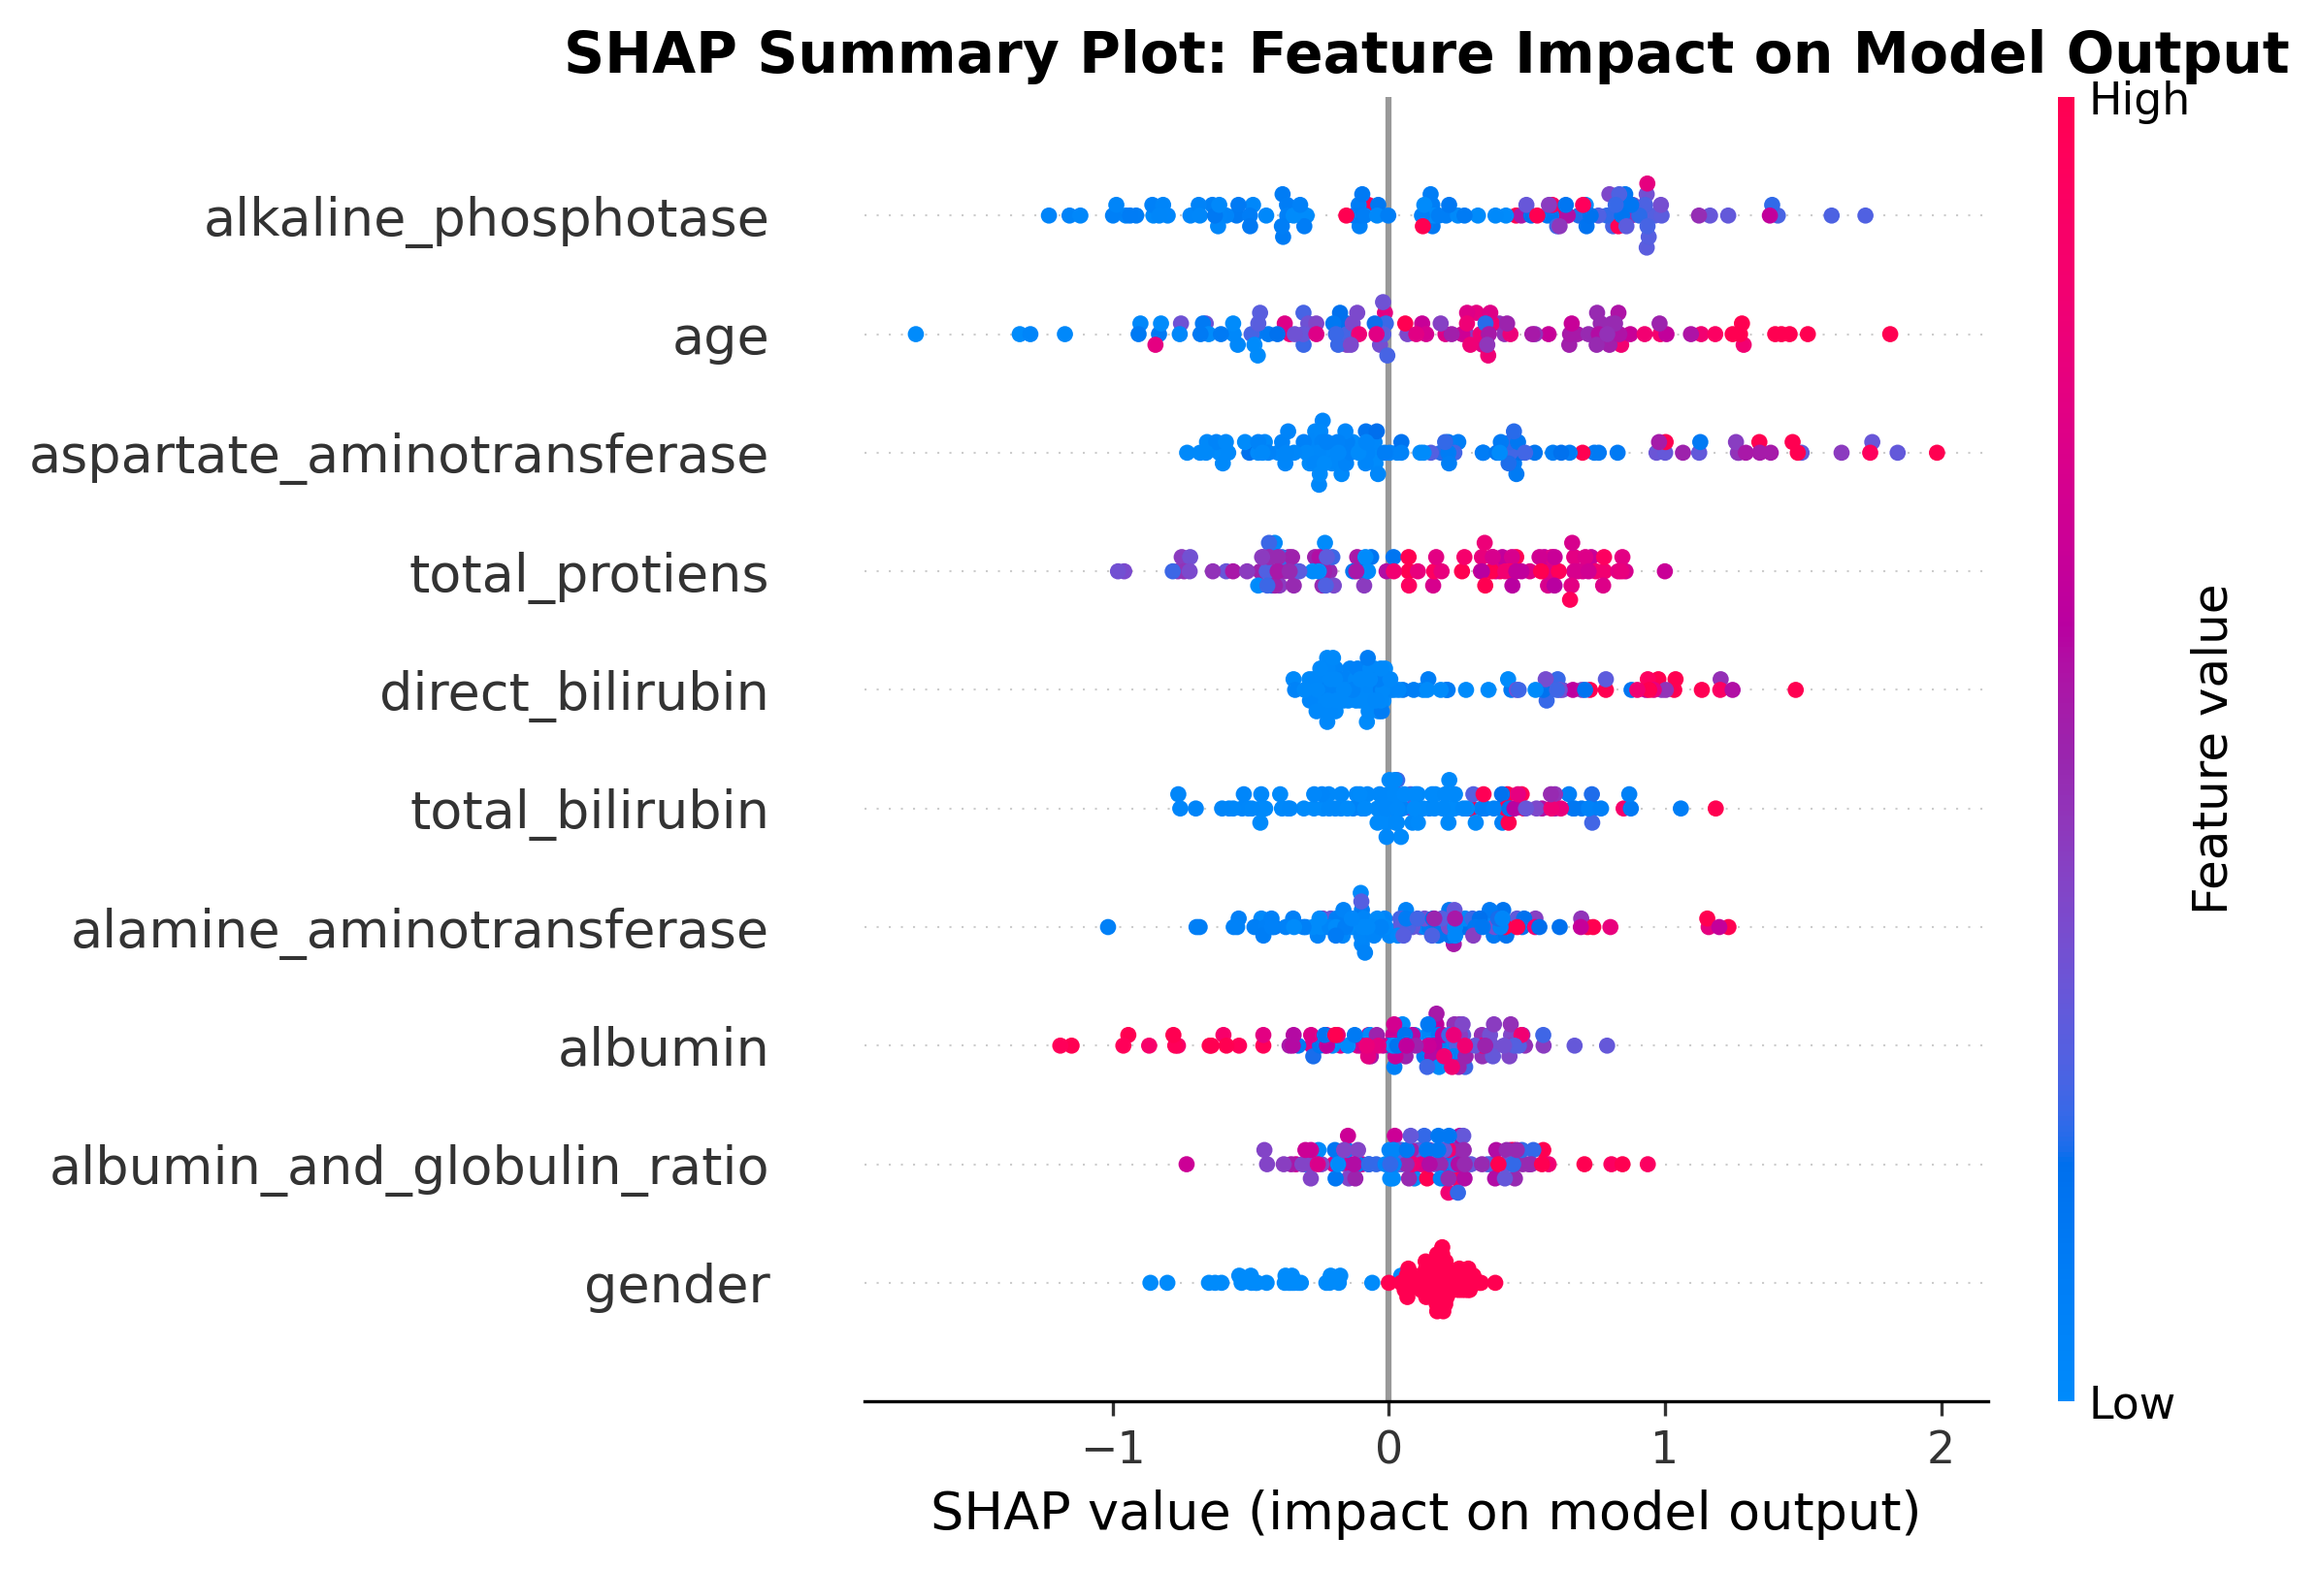
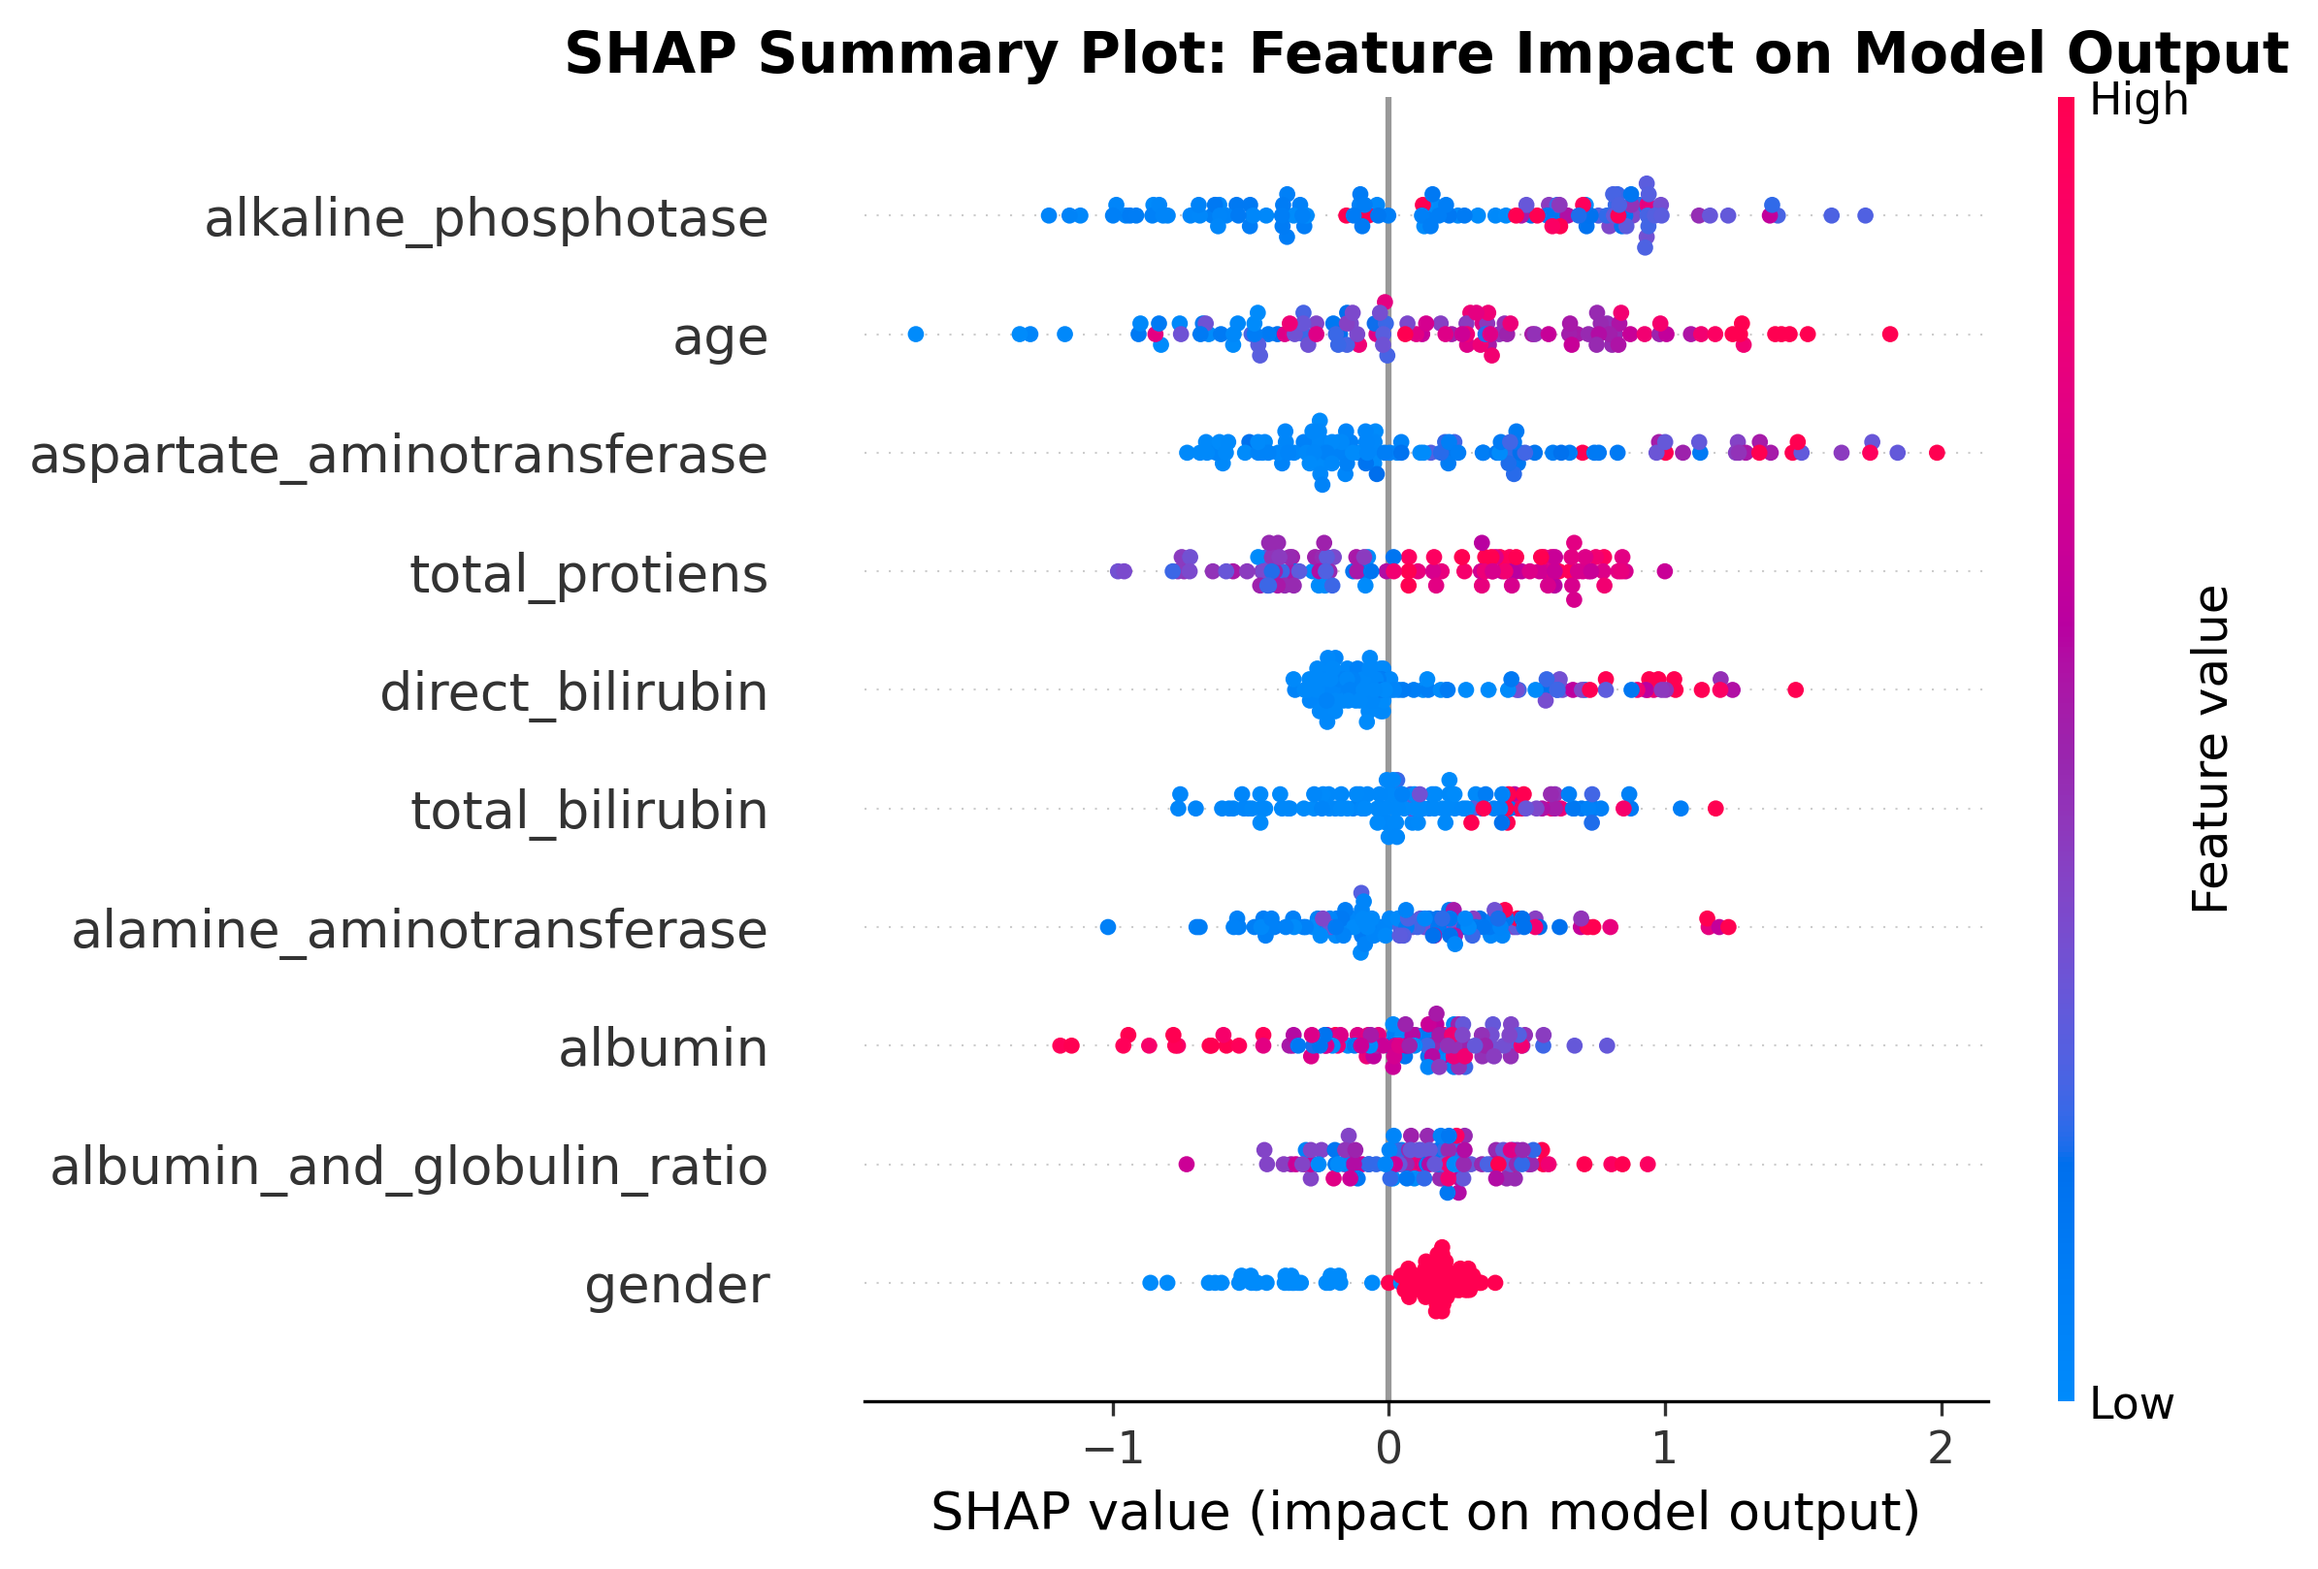
_supervised_learning modified

diff --git a/_supervised_learning.py b/_supervised_learning.py
@@ -392,9 +392,8 @@ plt.close()
 
 print("[OK] Precision-recall curves saved to outputs/02d_precision_recall_curves.png")
 
-# ========================================================================
+
 # CROSS-VALIDATION ANALYSIS
-# ========================================================================
 print("\n" + "="*70)
 print("VALIDATING MODEL CONSISTENCY ACROSS DATA SPLITS")
 print("="*70)
@@ -479,9 +478,8 @@ High std (+/- > 0.08):
   [!] May be overfitting or underfitting
 """)
 
-# ============================================================================
+
 # CROSS-VALIDATION COMPARISON PLOT: Test vs CV Performance
-# ============================================================================
 # Create comparison: Test Set Metrics vs Cross-Validation Metrics
 fig, axes = plt.subplots(1, 2, figsize=(14, 5))
 
@@ -563,11 +561,11 @@ print("  • CORAL bars (Cross-Validation) = Average performance across 5 folds 
 print("  • ERROR BARS = Variability across folds (smaller = more consistent)")
 print("  • Gap between bars = Potential overfitting/underfitting")
 
-# ============================================================================
-# STEP 3H: SHAP MODEL EXPLAINABILITY
-# ============================================================================
+
+# SHAP MODEL EXPLAINABILITY
+
 print("\n" + "="*70)
-print("STEP 3H: SHAP EXPLAINABILITY ANALYSIS")
+print("SHAP EXPLAINABILITY ANALYSIS")
 print("="*70)
 
 # Initialize SHAP explainer with best XGBoost model
@@ -577,9 +575,8 @@ shap_values = explainer.shap_values(X_test)
 print("✓ SHAP explainer initialized for XGBoost model")
 print(f"✓ SHAP values computed for {X_test.shape[0]} test samples")
 
-# ============================================================================
+
 # Visualization 1: Feature Importance (Mean Absolute SHAP values)
-# ============================================================================
 plt.figure(figsize=(10, 6))
 shap.summary_plot(shap_values, X_test, plot_type="bar", show=False)
 plt.title("Feature Importance: Mean |SHAP| Values (XGBoost)", fontsize=14, fontweight='bold')
@@ -590,9 +587,8 @@ plt.savefig(os.path.join(OUTPUT_DIR, "04_shap_feature_importance.png"), dpi=300,
 plt.close()
 print("✓ Feature importance plot saved: 04_shap_feature_importance.png")
 
-# ============================================================================
+
 # Visualization 2: SHAP Summary Plot (Beeswarm)
-# ============================================================================
 plt.figure(figsize=(12, 8))
 shap.summary_plot(shap_values, X_test, show=False)
 plt.title("SHAP Summary Plot: Feature Impact on Model Output", fontsize=14, fontweight='bold')
@@ -601,9 +597,8 @@ plt.savefig(os.path.join(OUTPUT_DIR, "05_shap_summary_beeswarm.png"), dpi=300, b
 plt.close()
 print("✓ SHAP summary beeswarm plot saved: 05_shap_summary_beeswarm.png")
 
-# ============================================================================
+
 # Visualization 3: SHAP Dependence Plots (Top 4 Features)
-# ============================================================================
 feature_names = X_test.columns.tolist()
 top_features_idx = np.argsort(np.abs(shap_values).mean(axis=0))[-4:][::-1]
 top_features = [feature_names[i] for i in top_features_idx]
@@ -623,9 +618,8 @@ plt.savefig(os.path.join(OUTPUT_DIR, "06_shap_dependence_plots.png"), dpi=300, b
 plt.close()
 print("✓ SHAP dependence plots saved: 06_shap_dependence_plots.png")
 
-# ============================================================================
+
 # Visualization 4: Custom Force Plots for Individual Patients (READABLE)
-# ============================================================================
 # Select 6 patients: 3 high-risk (diseased) and 3 low-risk (healthy)
 diseased_indices = np.where(y_test == 1)[0]
 healthy_indices = np.where(y_test == 0)[0]
@@ -690,9 +684,9 @@ plt.savefig(os.path.join(OUTPUT_DIR, "07_shap_force_plots_patients.png"), dpi=30
 plt.close()
 print("✓ SHAP force plots saved: 07_shap_force_plots_patients.png")
 
-# ============================================================================
-# SHAP Interpretation Guide
-# ============================================================================
+
+# SHAP Interpretation Guide--------------------------------------------------------
+
 print("\n" + "="*70)
 print("SHAP VALUES INTERPRETATION GUIDE")
 print("="*70)
@@ -731,11 +725,10 @@ CLINICAL APPLICATION:
 print(f"\n✓ All SHAP visualizations saved to outputs/")
 print("✓ Use these plots to explain predictions to clinicians and patients")
 
-# ============================================================================
-# STEP 3I: RISK STRATIFICATION
-# ============================================================================
+
+#RISK STRATIFICATION
 print("\n" + "="*70)
-print("STEP 3I: PATIENT RISK STRATIFICATION")
+print("PATIENT RISK STRATIFICATION")
 print("="*70)
 
 # Get probabilities for all test patients
@@ -761,14 +754,14 @@ patient_explanations = []
 feature_names = X_test.columns.tolist()
 
 for patient_idx in range(len(X_test)):
-    # Get top 5 biomarkers (by absolute SHAP contribution)
+    # top 5 biomarkers (by absolute SHAP contribution)
     shap_contributions = list(zip(feature_names, shap_values[patient_idx]))
     shap_contributions_sorted = sorted(shap_contributions, key=lambda x: abs(x[1]), reverse=True)
     
     top_5_pushing_disease = [x for x in shap_contributions_sorted[:5] if x[1] > 0]
     top_5_pushing_healthy = [x for x in shap_contributions_sorted if x[1] < 0][:5]
     
-    # Get patient's actual values
+    # patient's actual values
     patient_values = X_test.iloc[patient_idx]
     
     # Build clinical recommendation
@@ -838,9 +831,9 @@ for risk_tier in ["LOW RISK", "MEDIUM RISK", "HIGH RISK"]:
         diseased_count = (tier_actuals == 1).sum()
         print(f"  {risk_tier:12s}: {accuracy:.1%} accurate | {diseased_count}/{mask.sum()} actually diseased")
 
-# ============================================================================
+
 # VISUALIZATION: Risk Tier Distribution
-# ============================================================================
+
 fig, axes = plt.subplots(1, 2, figsize=(14, 5))
 
 # Plot 1: Risk distribution
@@ -876,9 +869,9 @@ plt.close()
 
 print(f"\n✓ Risk stratification visualization saved: 08_patient_risk_stratification_viz.png")
 
-# ============================================================================
+
 # SHOW EXAMPLE PATIENTS FROM EACH RISK TIER
-# ============================================================================
+
 print("\n" + "="*70)
 print("EXAMPLE PATIENTS FROM EACH RISK TIER")
 print("="*70)
